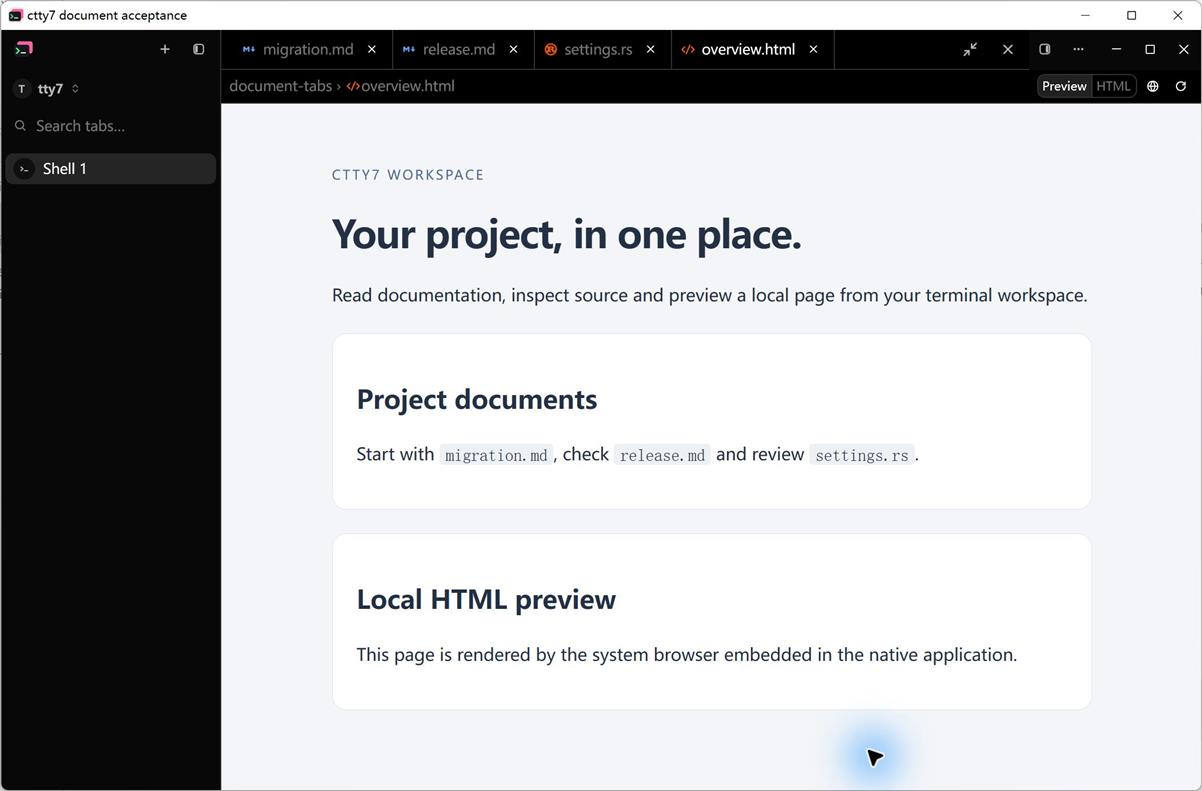
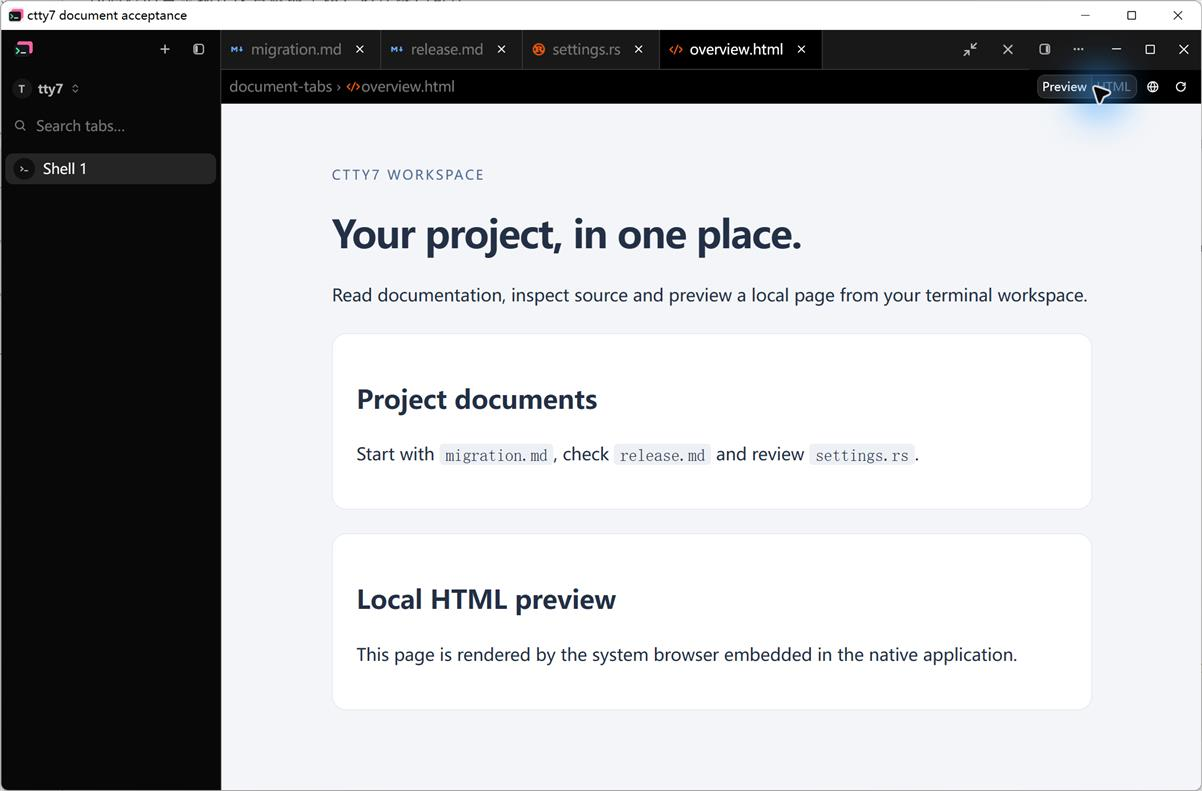
fix(editor): follow app theme across document surfaces
Fixed source backgrounds and inherited titlebar padding made the
file tabs look detached from the rest of the application.

Use the active theme base for source and gutter backgrounds, retaining
bundled syntax colors and recalculating search contrast. Align tabs
with the document edge and use one theme surface for the empty rail
and header controls. Preserve macOS traffic-light clearance.

Update theme-switching regressions, settings text and documentation.
Refresh all three native After captures.

Changed region(s): [[0.1847, 0.0303, 0.6772, 0.1214], [0.8619, 0.0607, 0.985, 0.182], [0.6772, 0.9102, 0.7696, 1.0]]

diff --git a/src/ui/code_editor.rs b/src/ui/code_editor.rs
@@ -6,8 +6,8 @@ use std::sync::Arc;
 
 use gpui::prelude::*;
 use gpui::{
-    AnyElement, App, Context, Entity, Focusable as _, PromptLevel, SharedString, Subscription,
-    Window, div, px,
+    AnyElement, Context, Entity, Focusable as _, PromptLevel, SharedString, Subscription, Window,
+    div, px,
 };
 use gpui_component::button::{Button, ButtonVariants as _};
 use gpui_component::input::{Input, InputEvent, InputState, Position, TabSize};
@@ -28,21 +28,6 @@ const MAX_FILE_BYTES: u64 = 4 * 1024 * 1024;
 pub(crate) mod native_html;
 
 const RELOAD_DEBOUNCE: std::time::Duration = std::time::Duration::from_millis(200);
-
-fn document_chrome_background(active: Option<&OpenFile>, cx: &App) -> u32 {
-    let surface = cx.global::<crate::ui::presets::Surfaces>().window;
-    if active.is_none_or(|file| file.preview) {
-        return surface.base;
-    }
-    let color = crate::terminal::palette::hsla_to_rgb(
-        crate::ui::editor_theme::current(cx)
-            .highlight_theme
-            .style
-            .editor_background
-            .expect("bundled editor background"),
-    );
-    (color.r as u32) << 16 | (color.g as u32) << 8 | color.b as u32
-}
 
 pub(crate) struct OpenFile {
     pub(crate) path: PathBuf,
@@ -1725,15 +1710,17 @@ impl Tty7App {
         window: &mut Window,
         cx: &mut Context<Self>,
     ) -> impl IntoElement + use<> {
-        // `TITLE_BAR_LEAD` is the room macOS's traffic lights need. Only a
-        // header that starts at the left edge of the window has them to clear,
-        // and a docked column never does.
-        let lead = if self.left_panel_open(cx) || chrome.is_dock() {
-            crate::ui::app::CONTENT_INSET
-        } else {
-            crate::ui::app::TITLE_BAR_LEAD
-        };
         let below_chrome = !chrome.is_dock() && self.document_header_below_chrome(window, cx);
+        // Reserve space only when macOS traffic lights share this header.
+        let lead = if cfg!(target_os = "macos")
+            && !self.left_panel_open(cx)
+            && !chrome.is_dock()
+            && !below_chrome
+        {
+            crate::ui::app::TITLE_BAR_LEAD
+        } else {
+            0.
+        };
         let row = h_flex().id("editor-header");
         let row = if chrome.header_is_title_strip() && !below_chrome {
             crate::ui::app::title_bar_drag(row, "editor-header", window, cx)
@@ -1742,15 +1729,15 @@ impl Tty7App {
         };
         let menu_app = cx.entity().downgrade();
         let surface = cx.global::<crate::ui::presets::Surfaces>().window;
-        let active = self.tab_code().and_then(|code| code.active_file());
-        let content_background = document_chrome_background(active, cx);
-        let inactive_tab = crate::ui::presets::mix(content_background, surface.base, 0.36);
+        let content_background = surface.base;
+        let inactive_tab = surface.hover;
         let font = gpui::font(cx.theme().font_family.clone());
         let rem = window.rem_size().as_f32();
         row.flex_none()
             .min_w_0()
             .h(px(crate::ui::app::TITLE_BAR_HEIGHT))
             .items_center()
+            .bg(gpui::rgb(inactive_tab))
             .gap_1p5()
             .pl(px(lead))
             .pr(px(crate::ui::app::tile_trailing_inset()))
@@ -1770,7 +1757,7 @@ impl Tty7App {
                     .flex_1()
                     .min_w_0()
                     .h_full()
-                    .bg(gpui::rgb(content_background))
+                    .bg(gpui::rgb(inactive_tab))
                     .overflow_x_scroll()
                     .when_some(self.tab_code(), |strip, code| {
                         strip.track_scroll(&code.tab_scroll).children(
@@ -1960,7 +1947,9 @@ impl Tty7App {
             .items_center()
             .gap_1()
             .px_2()
-            .bg(gpui::rgb(document_chrome_background(active, cx)))
+            .bg(gpui::rgb(
+                cx.global::<crate::ui::presets::Surfaces>().window.base,
+            ))
             .child(
                 div()
                     .id("editor-document-path")
@@ -3529,19 +3518,9 @@ mod tests {
                 let colors = &style.highlight_theme.style;
                 for (actual, key, github_key) in [
                     (
-                        colors.editor_background.unwrap(),
-                        "editor.background",
-                        "codeMirror-bgColor",
-                    ),
-                    (
                         colors.editor_foreground.unwrap(),
                         "editor.foreground",
                         "codeMirror-fgColor",
-                    ),
-                    (
-                        colors.editor_gutter_background.unwrap(),
-                        "editor.background",
-                        "codeMirror-gutters-bgColor",
                     ),
                     (
                         colors.editor_active_line.unwrap(),
@@ -3697,7 +3676,7 @@ mod tests {
     }
 
     #[gpui::test]
-    fn editor_theme_switches_with_app_appearance_and_preserves_edits(cx: &mut TestAppContext) {
+    fn editor_theme_background_follows_presets_and_preserves_edits(cx: &mut TestAppContext) {
         use crate::core::config::Config;
         use crate::ui::editor_theme;
         let (app, mut vcx) = markdown_window(cx);
@@ -3751,15 +3730,15 @@ mod tests {
         assert!(scroll.y < px(0.));
         for (legacy, preset, background) in [
             ("auto", "light", 0xffffff),
-            ("auto", "dark", 0x282c34),
+            ("auto", "dark", 0x000000),
             ("atom_one_dark", "light", 0xffffff),
-            ("atom_one_light", "dark", 0x282c34),
+            ("atom_one_light", "dark", 0x000000),
             ("one_dark_pro", "light", 0xffffff),
             ("one_dark_pro", "one_dark_pro", 0x282c34),
-            ("future-theme", "dracula", 0x282c34),
-            ("auto", "nord", 0x282c34),
-            ("atom_one_dark", "custom-dark-name", 0xffffff),
-            ("atom_one_light", "custom-light-name", 0x282c34),
+            ("future-theme", "dracula", 0x282a36),
+            ("auto", "nord", 0x2e3440),
+            ("atom_one_dark", "custom-dark-name", 0xf1ede1),
+            ("atom_one_light", "custom-light-name", 0x121827),
         ] {
             app.update_in(&mut vcx, |app, window, cx| {
                 let mut saved = serde_json::to_value(&cx.global::<Config>().0).unwrap();
@@ -3895,7 +3874,7 @@ mod tests {
                     .highlight_theme
                     .style
                     .editor_background,
-                Some(gpui::rgb(0x282c34).into())
+                Some(gpui::rgb(0x000000).into())
             );
             app.cancel_preset_preview(window, cx);
             assert_eq!(

diff --git a/src/ui/editor_theme.rs b/src/ui/editor_theme.rs
@@ -1,4 +1,4 @@
-//! Source editor colors are independent of the terminal and Markdown reader.
+//! Source syntax uses bundled palettes over the active application background.
 
 use crate::core::config::{
     Config, EDITOR_FONT_SIZE_DEFAULT, EDITOR_FONT_SIZE_MAX, EDITOR_FONT_SIZE_MIN,
@@ -62,14 +62,16 @@ pub(crate) fn current(cx: &App) -> Arc<CodeEditorStyle> {
         let color = crate::terminal::palette::hsla_to_rgb(color);
         (color.r as u32) << 16 | (color.g as u32) << 8 | color.b as u32
     };
-    let colors = &style.highlight_theme.style;
-    let background = pack(colors.editor_background.expect("bundled editor background"));
+    let resolved = Arc::make_mut(&mut style);
+    let colors = &mut Arc::make_mut(&mut resolved.highlight_theme).style;
+    let background = cx.global::<crate::ui::presets::Surfaces>().window.base;
+    colors.editor_background = Some(rgb(background).into());
+    colors.editor_gutter_background = Some(rgb(background).into());
     let foreground = pack(colors.editor_foreground.expect("bundled editor foreground"));
     let (hit_target, active_target) = match_wash_targets(background, foreground);
     let accent = cx.global::<ActiveAccent>().0;
-    // Use the editor's contrast budget even when its appearance differs from the app.
+    // Recalculate search contrast against the actual application background.
     // Opaque fills keep the current match independent of the ordinary hit below it.
-    let resolved = Arc::make_mut(&mut style);
     resolved.search_match = rgb(wash(background, foreground, hit_target)).into();
     resolved.search_match_active = rgb(wash(background, accent, active_target)).into();
     style

diff --git a/src/ui/i18n/ja.rs b/src/ui/i18n/ja.rs
@@ -181,7 +181,7 @@ pub fn translate_ja(key: L10nKey) -> Option<&'static str> {
         L10nKey::SettingsMarkdownTheme => "Markdown の閲覧テーマ",
         L10nKey::SettingsEditorTheme => "コードエディタの配色",
         L10nKey::SettingsEditorThemeDesc => {
-            "アプリがライトモードなら GitHub Light、ダークモードなら Atom One Dark を自動で使用し、背景も同じ配色にします。フォント設定は個別に保存します。"
+            "構文の配色はライトモードで GitHub Light、ダークモードで Atom One Dark を使用します。エディタと行番号欄の背景はアプリのテーマに従います。フォント設定は個別に保存します。"
         }
         L10nKey::SettingsEditorThemeResolved => "現在の配色：{active}。",
         L10nKey::SettingsEditorFont => "エディタのフォント",

diff --git a/src/ui/i18n/zh.rs b/src/ui/i18n/zh.rs
@@ -161,7 +161,7 @@ pub fn translate_zh(key: L10nKey) -> Option<&'static str> {
         L10nKey::SettingsMarkdownTheme => "Markdown 阅读主题",
         L10nKey::SettingsEditorTheme => "代码编辑区配色",
         L10nKey::SettingsEditorThemeDesc => {
-            "浅色模式自动使用 GitHub Light，深色模式使用 Atom One Dark，编辑区背景也采用对应配色。字体设置独立保存。"
+            "语法高亮在浅色模式使用 GitHub Light，深色模式使用 Atom One Dark。编辑区和行号栏背景跟随应用主题，字体设置独立保存。"
         }
         L10nKey::SettingsEditorThemeResolved => "当前使用 {active}。",
         L10nKey::SettingsEditorFont => "编辑器字体",

diff --git a/src/ui/i18n/en.rs b/src/ui/i18n/en.rs
@@ -177,7 +177,7 @@ pub fn translate_en(key: L10nKey) -> &'static str {
         L10nKey::SettingsMarkdownTheme => "Markdown reading theme",
         L10nKey::SettingsEditorTheme => "Code editor colors",
         L10nKey::SettingsEditorThemeDesc => {
-            "Automatically use GitHub Light in light mode and Atom One Dark in dark mode, including the editor background. Font settings stay independent."
+            "Syntax uses GitHub Light in light mode and Atom One Dark in dark mode. Editor and gutter backgrounds follow the application theme. Font settings stay independent."
         }
         L10nKey::SettingsEditorThemeResolved => "Currently using {active}.",
         L10nKey::SettingsEditorFont => "Editor font",

diff --git a/src/ui/app.rs b/src/ui/app.rs
@@ -7882,6 +7882,11 @@ impl Render for Tty7App {
                         .h(px(TITLE_BAR_HEIGHT))
                         .pl_0()
                         .bg(crate::ui::theme::workspace_surface_color(cx))
+                        .when(self.document_front() == Some(OverlayTop::Code), |bar| {
+                            bar.bg(gpui::rgb(
+                                cx.global::<crate::ui::presets::Surfaces>().window.hover,
+                            ))
+                        })
                         .border_color(cx.theme().transparent)
                         .child(self.window_chrome(window, cx)),
                 )

diff --git a/docs/testing/document-tabs-native.md b/docs/testing/document-tabs-native.md
@@ -52,9 +52,13 @@ controls were drawn over the screenshots.
 
 The Before application uses production commit `e06271fb` with only fixture
 commits `89176e54` and `8de7b3f5` applied. The After application uses the file-tab
-UI with the content-matched document chrome color pass. In source mode, the
-active tab and breadcrumb row share the editor background, while inactive tabs
-use a darker blend. Markdown and HTML previews retain the window background.
+UI with theme-following document surfaces. Source content, the gutter, the
+active tab and breadcrumb row use the application theme's opaque base color.
+Inactive tabs, the empty tab rail and document header actions use the window
+hover surface, including the window controls beside a filled document.
+Tabs start flush at the document's left edge; only macOS traffic lights reserve
+leading space when they occupy the same header. Markdown and HTML previews
+retain the window background.
 The breadcrumb row has no bottom divider, so it joins the document content.
 Markdown cases open the two maintenance documents and
 `settings.rs`; the HTML case additionally opens `overview.html`.
@@ -74,18 +78,22 @@ Markdown cases open the two maintenance documents and
 Native input also verified clicking Markdown to enter source, switching to
 `release.md` in its independent Preview mode, returning to `migration.md` with
 source mode retained, and closing inactive `settings.rs` without changing the
-current document. The refreshed source After image was captured by selecting
-Markdown in the preview fixture, with all three files still open.
+current document. The refreshed source After image starts the fixture with
+`active: 0, preview: false`, with all three files still open.
 
-The color pass passed `cargo fmt --all -- --check`, all six tests selected by
-`cargo test --bin tty7-app document_tabs --no-fail-fast`, and
-`cargo build --bin tty7-app --features markdown-visual-tests` on Windows. The
-three refreshed After images were inspected in the native application and again
-after export.
+The theme-following surfaces passed these checks on Windows:
 
-The divider-only follow-up passed formatting and the fixture build. Its updated
-Markdown preview and source captures were checked in the native window and after
-export; the HTML capture remains from the preceding color pass.
+- `cargo fmt --all -- --check`.
+- `cargo test --bin tty7-app editor_ --no-fail-fast`: 18 passed.
+- `cargo test --bin tty7-app document_tabs --no-fail-fast`: 6 passed.
+- `cargo test --bin tty7-app source_palette_follows_system --no-fail-fast`: 1 passed.
+- `cargo build --bin tty7-app --features markdown-visual-tests`.
+
+The preset regression covers black, One Dark Pro, Dracula, Nord, light and
+custom backgrounds, preserving unsaved edits, cursor, selection, scrolling and
+undo. It failed against the fixed Atom One Dark background before the fix.
+Search contrast and authored syntax-color checks also pass. All three After
+images were recaptured from this build and inspected before and after export.
 
 ## Capture limits
 

diff --git a/assets/editor-themes/README.md b/assets/editor-themes/README.md
@@ -34,8 +34,10 @@ caret, line numbers and active-line colors retain the website CodeMirror control
 tokens where the file viewer has no equivalent editable control.
 These are Tree-sitter role adaptations, not a browser editor runtime.
 
-The palettes retain the authored editor backgrounds, text, line numbers,
-selections, cursor and syntax colors. GitHub Light uses the website border token
+The palette JSON retains the authored editor backgrounds, text, line numbers,
+selections, cursor and syntax colors. At runtime, editor and gutter backgrounds
+use the active application theme's opaque base color. Syntax and editing control
+colors still come from the bundled palette. GitHub Light uses the website border token
 for invisible characters and borders, and the foreground for active line numbers.
 Auxiliary diagnostic colors use Atom syntax roles in dark mode and GitHub's
 danger, attention, accent, success and muted tokens in light mode. Their backgrounds
@@ -75,8 +77,11 @@ The themes are embedded at compile time. No theme download occurs at runtime.
 
 The application's resolved light/dark appearance selects GitHub Light or
 Atom One Dark for every source editor. The One Dark Pro application preset
-uses Atom One Dark, just like other dark presets. Each source palette owns the
-complete opaque editor and gutter background, syntax, selection and caret.
+uses Atom One Dark syntax, just like other dark presets. Editor and gutter
+backgrounds follow the selected application preset, including theme previews,
+canceling a preview, system appearance changes and configuration reloads. The
+solid theme base remains opaque over wallpaper, gradients and window transparency.
+The source palette supplies syntax, selection and caret colors.
 There are no independent fixed-mode editor choices. The retired `editor_theme`
 configuration key is ignored on load and omitted on save.
 Font family, font size and line height remain independent user preferences;

diff --git a/docs/specs/file-document-tabs.md b/docs/specs/file-document-tabs.md
@@ -50,6 +50,7 @@ Provide a document workspace within each terminal session. A horizontal file tab
 - Preserve existing HTML availability, resource loading and dirty-buffer save requirements. Linux and remote HTML retain existing source fallback behavior.
 - When the last file closes, hide the code panel; an independently open diff view follows the existing document-front selection rules.
 - Use existing theme tokens, file icons, localization and accessible button conventions. Handle long paths and narrow columns without overflowing mode controls or window chrome.
+- Use the application theme's opaque base for source content, its gutter, the active file tab and breadcrumbs. Use the window hover surface for inactive tabs, the empty tab rail and header actions. Start tabs flush with the document edge, reserving space only for macOS traffic lights when they share the header. Keep syntax palettes selected by the application's light/dark appearance.
 
 ## Testing Decisions
 

diff --git a/docs/specs/editor-github-light.md b/docs/specs/editor-github-light.md
@@ -2,6 +2,12 @@
 
 Tracking issue: [cloudy-liu/ctty7#89](https://github.com/cloudy-liu/ctty7/issues/89).
 
+Background update in [cloudy-liu/ctty7#186](https://github.com/cloudy-liu/ctty7/pull/186):
+the editor and gutter now use the selected application theme's opaque base color.
+This supersedes the fixed editor-background requirements below. GitHub Light
+and Atom One Dark still supply syntax and editing control colors according to
+the application's resolved appearance.
+
 ## Problem Statement
 
 The source editor previously used Atom One Light in every light application
